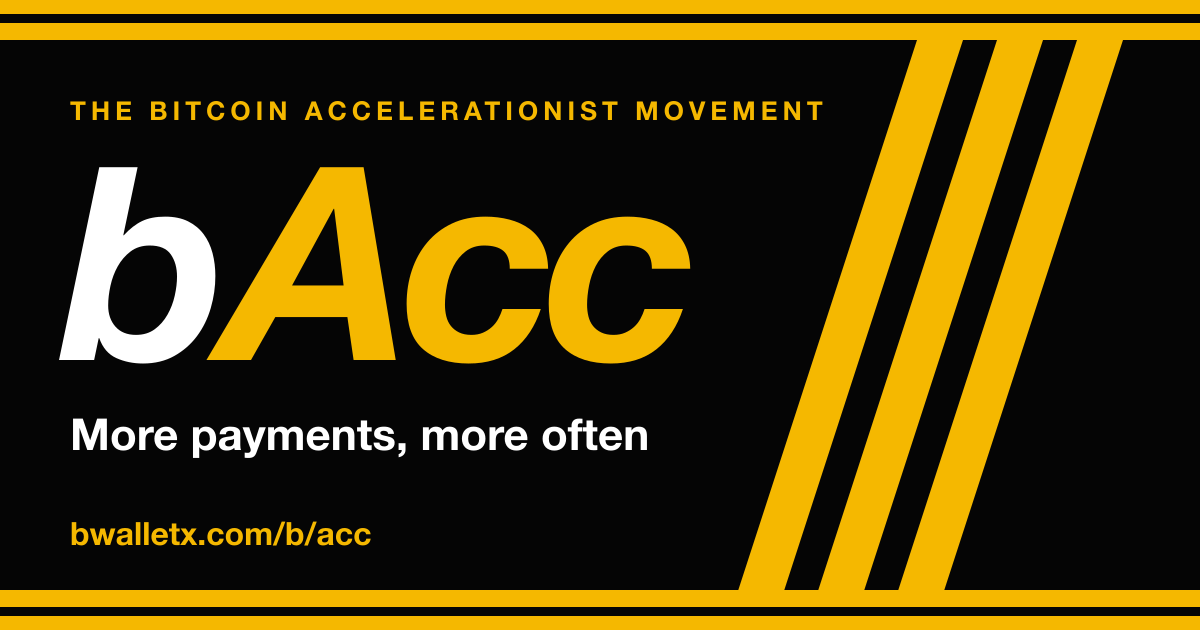
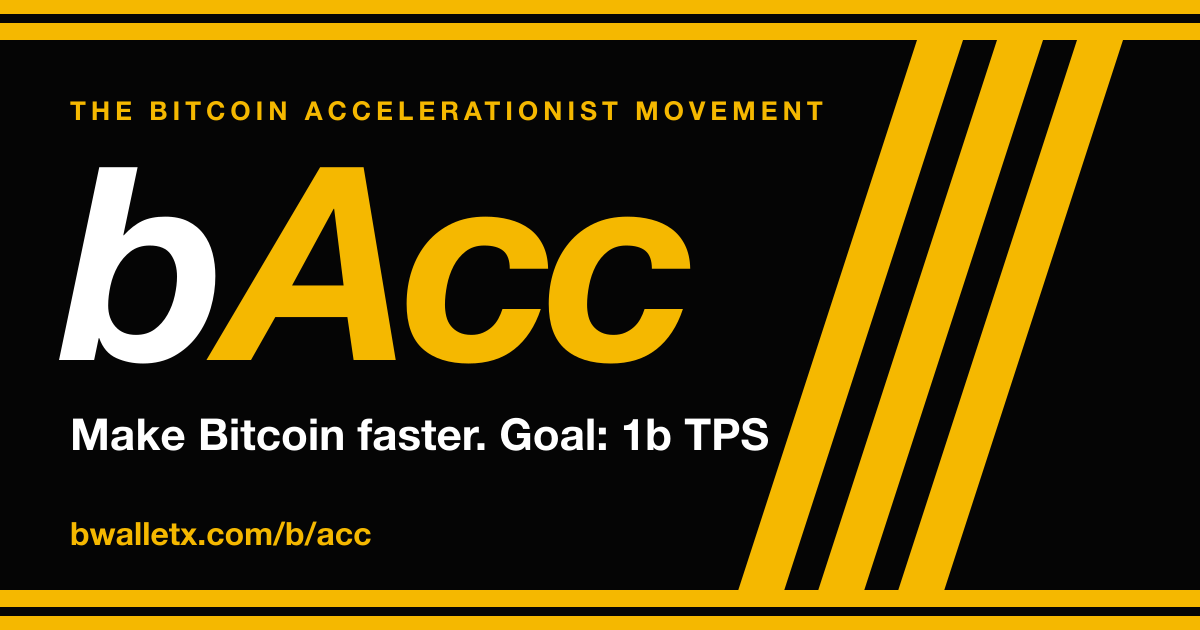
bAcc: make Bitcoin faster; BTC vs BSV comparison and the 1b TPS goal

Changed region(s): [[0.0925, 0.6635, 0.6475, 0.7238]]

diff --git a/b/acc.html b/b/acc.html
@@ -3,14 +3,14 @@
   <head>
     <meta charset="utf-8" />
     <meta name="viewport" content="width=device-width, initial-scale=1" />
-    <title>bAcc: Bitcoin accelerationism, more payments and faster | bWalletX</title>
+    <title>bAcc: make Bitcoin faster, the goal is 1 billion transactions a second | bWalletX</title>
     <link rel="canonical" href="https://bwalletx.com/b/acc" />
-    <meta name="description" content="bAcc is the Bitcoin accelerationist movement: speed Bitcoin up by sending more of it, more often. More payments, more people, more transactions per second. Play the bAcc race game." />
+    <meta name="description" content="bAcc is the Bitcoin accelerationist movement: make Bitcoin faster. BTC handles a few transactions a second; BSV is built to scale. Our goal: 1 billion transactions per second (1b TPS). Play the bAcc race game." />
     <meta property="og:type" content="website" />
     <meta property="og:url" content="https://bwalletx.com/b/acc" />
     <meta property="og:site_name" content="bWalletX" />
     <meta property="og:title" content="bAcc: Bitcoin accelerationism" />
-    <meta property="og:description" content="Speed Bitcoin up: more payments, more people, more transactions per second. Play the race game." />
+    <meta property="og:description" content="Make Bitcoin faster. Goal: 1 billion transactions per second (1b TPS). BTC vs BSV explained." />
     <meta property="og:image" content="https://bwalletx.com/og-bacc-v1.png" />
     <meta property="og:image:width" content="1200" />
     <meta property="og:image:height" content="630" />
@@ -18,7 +18,7 @@
     <meta name="twitter:card" content="summary_large_image" />
     <meta name="twitter:site" content="@bWalletX" />
     <meta name="twitter:title" content="bAcc: Bitcoin accelerationism" />
-    <meta name="twitter:description" content="Speed Bitcoin up: more payments, more people, more transactions per second." />
+    <meta name="twitter:description" content="Make Bitcoin faster. Goal: 1 billion transactions per second (1b TPS)." />
     <meta name="twitter:image" content="https://bwalletx.com/og-bacc-v1.png" />
     <link rel="icon" href="/favicon.ico" />
     <link rel="stylesheet" href="/styles.css" />
@@ -44,6 +44,12 @@
       .grid .box a.go { margin-top: auto; padding-top: 8px; color: #F5B800; font-weight: 700; text-decoration: none; }
       .tag { align-self: flex-start; font-size: 0.72rem; font-weight: 800; letter-spacing: 0.1em; padding: 3px 9px; border-radius: 999px; border: 1px solid #ffffff22; color: #a7adb8; }
       .tag.live { color: #7ee0a1; border-color: #7ee0a155; }
+      .bacc-table { margin: 18px 0; border: 1px solid #ffffff14; border-radius: 12px; overflow: hidden; }
+      .bacc-row { display: grid; grid-template-columns: 1.1fr 1fr 1fr; gap: 12px; padding: 12px 16px; border-top: 1px solid #ffffff10; font-size: 0.95rem; line-height: 1.5; color: #a7adb8; }
+      .bacc-row:first-child { border-top: 0; }
+      .bacc-head { background: #101114; font-weight: 800; color: #F5B800; }
+      .bacc-row span:first-child { color: #fff; font-weight: 700; }
+      @media (max-width: 560px) { .bacc-row { grid-template-columns: 1fr; gap: 4px; } .bacc-head { display: none; } .bacc-row span:nth-child(2)::before { content: "BTC: "; font-weight: 800; color: #fff; } .bacc-row span:nth-child(3)::before { content: "BSV: "; font-weight: 800; color: #F5B800; } }
       .tag.wip { color: #F5B800; border-color: #F5B80066; }
     </style>
   </head>
@@ -64,14 +70,26 @@
       <section class="bacc-hero">
         <p class="strap">THE BITCOIN ACCELERATIONIST MOVEMENT</p>
         <p class="bacc-word">b<span class="y">Acc</span></p>
-        <h1>Speed Bitcoin up: more payments, more often</h1>
-        <p class="lede">bAcc is the Bitcoin accelerationist movement. Its goal is simple: raise the number of Bitcoin transactions, by sending more of it, to more people, in more places. Faster and more of it is the whole idea. The long-run version has a name, hyperbitcoinization: Bitcoin becoming the money people use every day.</p>
+        <h1>Make Bitcoin faster</h1>
+        <p class="lede">bAcc is the Bitcoin accelerationist movement. We want Bitcoin to be fast enough and cheap enough to pay for anything, anywhere, all day. Our goal is <strong>1 billion transactions per second (1b TPS)</strong>. That is a goal, not what the network does today. The long-run version has a name: hyperbitcoinization, Bitcoin becoming the money people use every day.</p>
         <div class="row">
           <a class="btn btn-store" href="/get">Get bWalletX</a>
           <a class="btn btn-store btn-ghost" href="https://www.vexvoid.com/race">Play the bAcc race</a>
         </div>
       </section>
       <div class="bacc-stripes" aria-hidden="true"></div>
+
+      <h2>BTC is slow. BSV is built to be fast.</h2>
+      <p>Both are called Bitcoin. They run the same idea differently, and speed is where they differ most.</p>
+      <div class="bacc-table" role="table" aria-label="BTC compared with BSV">
+        <div class="bacc-row bacc-head" role="row"><span role="columnheader"></span><span role="columnheader">BTC</span><span role="columnheader">BSV</span></div>
+        <div class="bacc-row" role="row"><span role="rowheader">Speed on the main chain</span><span>About 3 to 7 transactions a second</span><span>No fixed limit in the protocol; capacity grows with the hardware</span></div>
+        <div class="bacc-row" role="row"><span role="rowheader">Block size</span><span>Capped by rule at a few megabytes</span><span>Blocks can be as large as miners and nodes can handle</span></div>
+        <div class="bacc-row" role="row"><span role="rowheader">Fee for a small payment</span><span>Rises when the network is busy, often too high for small payments</span><span>A fraction of a penny</span></div>
+        <div class="bacc-row" role="row"><span role="rowheader">How it grows</span><span>Moves small payments to other layers</span><span>Keeps payments on the main chain and scales it up</span></div>
+      </div>
+      <p class="small">Figures are approximate and change over time. Check a current source before you rely on them.</p>
+      <div class="box"><span class="tag wip">THE GOAL</span><h3>1b TPS: one billion transactions per second</h3><p>That is the target bAcc is working toward: a network that never makes anyone wait or pay much to send a payment. Today&rsquo;s real-world volume is far lower, and we will not pretend otherwise. The speed has to be built, tested and shown.</p></div>
 
       <h2>What bAcc means</h2>
       <div class="grid">
